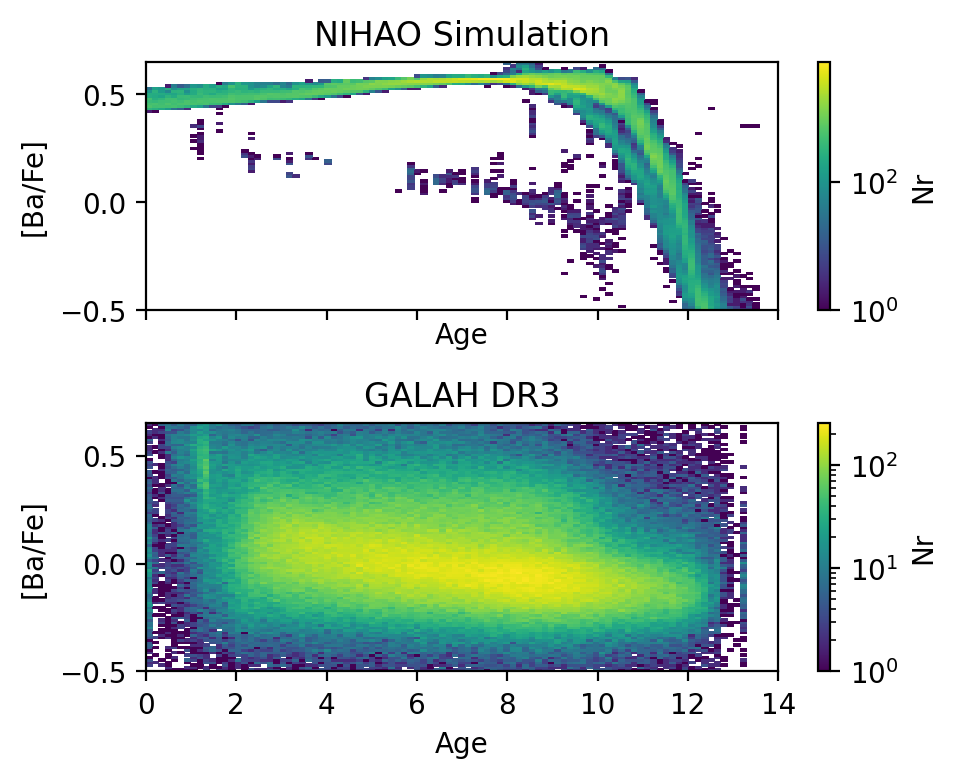
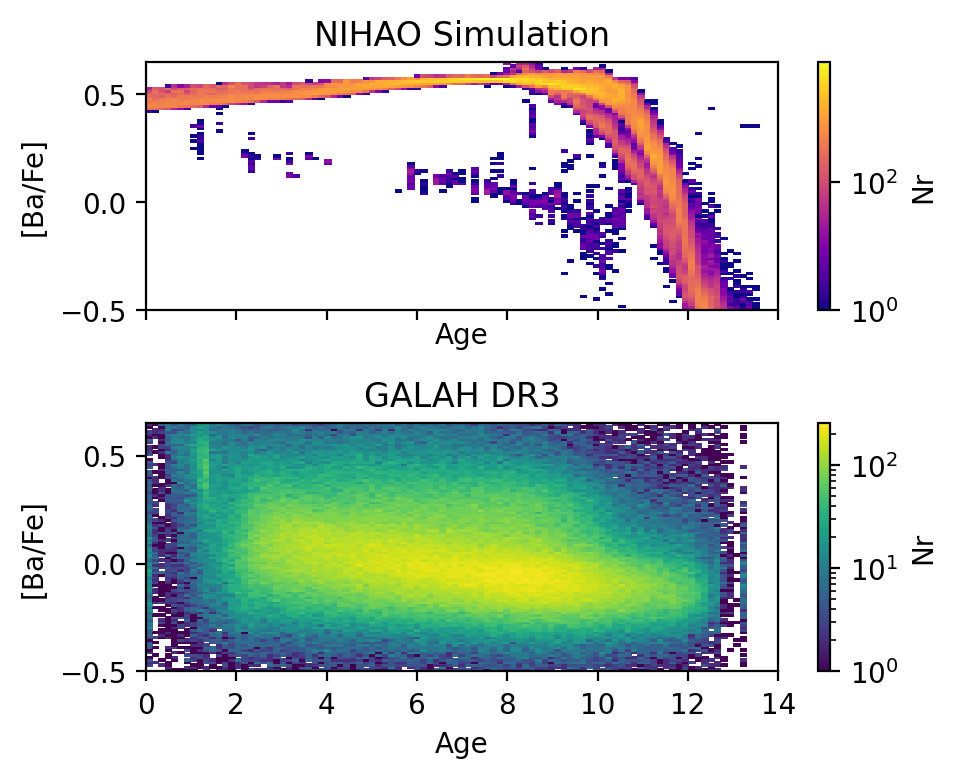
Updates from Overleaf

Changed region(s): [[0.1515, 0.0617, 0.8182, 0.401], [0.8485, 0.0925, 0.8788, 0.401], [0.2424, 0.1851, 0.3333, 0.2159]]

diff --git a/Mijnarends2022_ObsSimAccretion.tex b/Mijnarends2022_ObsSimAccretion.tex
@@ -88,8 +88,9 @@ cosmology: observations -- Galaxy: formation -- Galaxy: evolution -- Galaxy: abu
 \section{Introduction}
 \label{sec:intro}
 
-The history of the Milky Way is a puzzle that has taunted astronomers for decades. Their long lifetimes and unchanging chemical composition through Galactic evolution means that stars in the Milky Way hold key insights to our understanding of the processes that have led to our Galaxy as we know it today. The advent of new large-scale stellar surveys, providing measurements of elemental abundances\footnote{We define elemental abundances, such as [Fe/H], [Mg/Fe], and [Mg/Mn] as logarithmic ratios of two elemental number densities compared to the Sun, that is, $\left[\frac{X}{Y}\right]=\log_{10}\left(\frac{N_X}{N_Y}\right) -\log_{10}\left(\frac{N_X}{N_Y}\right)_\odot$.} for millions of stars has enabled insights into the long and complex history of our Galaxy that have been previously unattainable. When the first data from the \Gaia satellite was released in 2016 \citep{Brown2016}, it catalysed a cascade of new discoveries and discussions: a product of the survey's unprecedented accuracy and scale \citep{BlandHawthorn2019}. \Gaia's astrometric data complements corresponding advancements in spectroscopic surveys that are allowing for significant improvement in our understanding of the chemical makeup of stars \citep{Buck2021}. The \textit{GALactic Archaeology with HERMES} (GALAH) survey\footnote{\url{https://www.galah-survey.org}}, based at the Australian-Anglo telescope, is at the forefront of our improved spectroscopic capabilities \citep{DeSilva2015}. Created to provide chemical data for up to one million of the stars observed by \Gaia, the combined use of \Gaia and GALAH possesses undeniable potential for the field of galactic archaeology, promising to pave the way for improved analysis and understanding of our Galaxy \citep{Buder2021}. This report aims to contribute a small piece in our burgeoning understanding of galactic evolution: combining cosmological simulations and the spectroscopic GALAH data to explore the best option for diagnostic plots with which we can recognise accreted stars in the Milky Way.  
+The history of the Milky Way is a puzzle that has taunted astronomers for decades. The long lifetimes and unchanging chemical composition of stars makes them a key piece in the puzzle, allowing insights into the historical processes that have led to our Galaxy as we know it today. The advent of new large-scale stellar surveys, providing a wealth of information including measurements of elemental abundances\footnote{We define elemental abundances, such as [Fe/H], [Mg/Fe], and [Mg/Mn] as logarithmic ratios of two elemental number densities compared to the Sun, that is, $\left[\frac{X}{Y}\right]=\log_{10}\left(\frac{N_X}{N_Y}\right) -\log_{10}\left(\frac{N_X}{N_Y}\right)_\odot$.}  for millions of stars has enabled insights into the long and complex history of our Galaxy that have been previously unattainable. The first data release from the \Gaia satellite in 2016 \citep{Brown2016} catalysed a cascade of new discoveries and discussions: a product of the survey’s unprecedented accuracy and scale \citep{BlandHawthorn2019}. \Gaia’s astrometric data complements corresponding advancements in spectroscopic surveys, allowing for significant improvement in our understanding of the chemical makeup of stars \citep{Buck2021}. For example, this study relies on the \textit{GALactic Archaeology with HERMES} (GALAH) survey, based at the Australian-Anglo telescope, which was designed to provide chemical data for up to one million of the stars observed by Gaia \citep{Buder2021}. Using the GALAH data and cosmological simulations to explore the best diagnostic plot with which we can recognise accreted stars in the Milky Way, this report aims to contribute a small piece in our burgeoning understanding of galactic accretion. 
 
+% The history of the Milky Way is a puzzle that has taunted astronomers for decades. Their long lifetimes and unchanging chemical composition through Galactic evolution means that stars in the Milky Way hold key insights to our understanding of the processes that have led to our Galaxy as we know it today. The advent of new large-scale stellar surveys, providing measurements of elemental abundances\footnote{We define elemental abundances, such as [Fe/H], [Mg/Fe], and [Mg/Mn] as logarithmic ratios of two elemental number densities compared to the Sun, that is, $\left[\frac{X}{Y}\right]=\log_{10}\left(\frac{N_X}{N_Y}\right) -\log_{10}\left(\frac{N_X}{N_Y}\right)_\odot$.} for millions of stars has enabled insights into the long and complex history of our Galaxy that have been previously unattainable. When the first data from the \Gaia satellite was released in 2016 \citep{Brown2016}, it catalysed a cascade of new discoveries and discussions: a product of the survey's unprecedented accuracy and scale \citep{BlandHawthorn2019}. \Gaia's astrometric data complements corresponding advancements in spectroscopic surveys that are allowing for significant improvement in our understanding of the chemical makeup of stars \citep{Buck2021}. The \textit{GALactic Archaeology with HERMES} (GALAH) survey\footnote{\url{https://www.galah-survey.org}}, based at the Australian-Anglo telescope, is at the forefront of our improved spectroscopic capabilities \citep{DeSilva2015}. Created to provide chemical data for up to one million of the stars observed by \Gaia, the combined use of \Gaia and GALAH possesses undeniable potential for the field of galactic archaeology, promising to pave the way for improved analysis and understanding of our Galaxy \citep{Buder2021}. This report aims to contribute a small piece in our burgeoning understanding of galactic evolution: combining cosmological simulations and the spectroscopic GALAH data to explore the best option for diagnostic plots with which we can recognise accreted stars in the Milky Way.  
 
 % - difference in the evolution of chemical abundances, both [X/H] and [X/Fe] expected from theoretical predictions of chemical evolution \citep[see e.g.][]{Kobayashi2020}.
 % \begin{equation}
@@ -106,26 +107,47 @@ Interesting papers to keep in mind:
 
 \subsection{Identifying accreted stars - clues from observations}
 
-We are basically looking for distinct locations of accreted stars with respect to the in-situ stars in whatever observables (or inferred quantities) we can get our hands on. We can simply refer to a summary in appendix of \citet{Buder2022} and just briefly mention here:
-\begin{itemize}
-    \item pioneering studies: \citet{Nissen2010} with [Fe/H] vs. [Mg/Fe] for kinematic halo stars, \citet{Belokurov2018} with $V_R$ vs. $V_\phi$, \citet{Helmi2018} with $L_Z$ vs. $E$; see review: \citet{Helmi2020}
-    \item evidence that halo comprised of substructure: \citet{Naidu2020} with combination of $L_Z$ vs. $E$, $V_R$ vs. $V_\phi$, $J_\phi/J_\text{tot}$ vs $(J_Z - J_R)/J_\text{tot}$ $R$ vs. $e$, [Fe/H], [Fe/H] vs. [Mg/Fe]
-    \item how to identify accreted stars in chemical space: \citet{Hawkins2015, Das2020, Buder2022}, e.g. [Al/Fe] vs. [Mg/Mn] or [Na/Fe] vs. [Mg/Mn]
-    \item extra-galactic studies use age-abundance trends, e.g. \citet{Martig2021}
-\end{itemize}
+% A large array of methods have been used in the search for accreted stars; of which an extensive list can be found in the appendix of \citet{Buder2022}. Here, we refer to the pioneering research by \citet{Nissen2010} which consolidated distinct stellar abundances with previously identified distinct kinematic features. \citet{Belokurov2018} further studied the kinematic distribution in the stellar halo to conclude that the halo was formed by one large accretion event. \citet{Helmi2018} is another notable work that laid the foundations for this letter.  These findings are further outlined by \citet{Naidu2020}, with combinatory use of $L_Z$ vs. $E$, $V_R$ vs. $V_\phi$, $J_\phi/J_\text{tot}$ vs $(J_Z - J_R)/J_\text{tot}$ $R$ vs. $e$, [Fe/H], [Fe/H] vs. [Mg/Fe] etc. to provide evidence of a substructure-dominated halo. \par
+% This research uses chemical tagging to identify accreted stars within the Milky Way- a method that has been done in previous studies by \citet{Hawkins2015}, \citet{Das2020} and \citet{Buder2022}. \citet{Martig2021} identify elemental abundance over time in extra-galactic sources as a possible diagnostic tool, which is further explored in this letter. \par 
 
-Problem: All of these plots from observations have shortcomings: 1) several observables are not conserved (e.g. velocities) or less conserved (e.g. energies) over a longer time-frame and when the asymmetric potential (assumed to be axisymmetric) is evolving. Chemical abundances and ages are much more conserved properties of stars, but 1) not directly observables and 2) hard to obtain from stellar spectra and any kind of age-inference tool - especially for metal-poor stars, as we expect accreted stars to be. Just briefly mention: Al hard to measure for GALAH (can use highly-correlated Na however) and stellar ages also uncertain. The average age uncertainty of stars in GALAH is $33 \pm 20\%$. For main-sequence turn-off stars, the ages are more certain, whereas for giant stars they are on average $42 \pm 15\%$. When assuming age uncertainties of 30-50\%, the true age of a star with a measured age of 5Gyr could be anywhere between 2.5 Gyr and 7.5 Gyr old- a massive margin.
+An extensive list of the wide array of methods that have been used in the search for accreted stars can be found in the appendix of \citet{Buder2022}. Here, we refer to the pioneering research by \citet{Nissen2010}, which consolidated distinct stellar abundances with previously identified distinct kinematic features. \citet{Belokurov2018} and \citet{Helmi2018} further studied the dynamic distribution in the stellar halo, resulting in the discovery of the large accretion event termed the Gaia-Sausage-Enceladus. This finding was further outlined by \citet{Naidu2020}, with combinatory use of $L_Z$ vs. $E$, $V_R$ vs. $V_\phi$, $J_\phi/J_\text{tot}$ vs $(J_Z - J_R)/J_\text{tot}$ $R$ vs. $e$, [Fe/H], [Fe/H] vs. [Mg/Fe] etc. to provide evidence of a substructure-dominated halo. \par
+Building upon these works, \citet{Hawkins2015}, \citet{Das2020} and \citet{Buder2022} use chemical tagging to identify accreted stars, outlining a number of potential diagnostic chemical abundance plots, which were used as a foundation for this study. We also draw upon the work of \citet{Martig2021}, which identified plots of elemental abundance over time in extra-galactic sources as a possible diagnostic tool. \par 
 
-Cosmological zoom-in simulation have no age uncertainties and now also trace chemical evolution, in particular the simulation that we use here \citep{Buck2021}, a follow-up of the NIHAO simulation suite.
+These seminal works are all based on observations and are thus hindered by various shortcomings in accuracy. The timespan over which galactic evolution occurs, where in (presumably axisymmetric) asymmetric potential is evolving, is very long. This poses a few problems with the observables used in these existing studies. Variables such as velocities are not conserved over time, and observables like energies are less conserved. Therein lies one of the key advantages of chemical abundances: they are conserved qualities and thus change very little over time. They are, however, not directly observable and difficult to obtain from stellar spectra and any age-inference tool. This is especially the case in metal-poor stars, as we expected accreted stars to be. 
+It is prudent to note here that the GALAH data we are working with is particularly difficult to measure in Aluminium abundance, which can be addressed by using the highly-correlated Sodium values instead. The observed stellar ages are even more uncertain- with an average age uncertainty of $33\pm20\%$. We are currently working with a massive age uncertainty range between $30-50\%$. Cosmological simulations, such as those used in this study, carry no age uncertainties and the particular simulation we use here (\citep{Buck2021}) now also includes chemical abundance information. This will provide an exceptional preliminary dataset for exploring potential diagnostic tools, without uncertainty margins to consider. 
+
+
+
+% All of these plots that are based on observations are hindered by various issues in accuracy. The timespans over which galactic evolution occurs, wherein the asymmetric potential (assumed to be axisymmetric) is evolving are very long. This means that several observables used in several of the above works are either not conserved (such as velocities) or less conserved (e.g. energies). This can be addressed by using chemical abundances, which are conserved quantities and expected to change very little over time. However, abundances are not directly observable and difficult to obtain from stellar spectra and any age-inference tool. This is especially the case in metal-poor stars, as we expect accreted stars to be.\par 
+% It is prudent to note here that the GALAH data we are working with is particularly difficult to measure in Aluminium abundance, which can be addressed by using the highly-correlated Sodium values instead. The observed stellar ages are even more uncertain- with an average age uncertainty of $33\pm20\%$. When  assuming age uncertainties of $30-50\%$, a star’s true age with a measured age of 5Gyr could be anywhere between 2.5 Gyr and 7.5 Gyr old- a massive margin.
+% Cosmological zoom-in simulations carry no age uncertainties and the particular simulation we use here (\citep{Buck2021}) now also includes chemical abundance information. 
+
+
+
+% We are basically looking for distinct locations of accreted stars with respect to the in-situ stars in whatever observables (or inferred quantities) we can get our hands on. We can simply refer to a summary in appendix of \citet{Buder2022} and just briefly mention here:
+% \begin{itemize}
+%     \item pioneering studies: \citet{Nissen2010} with [Fe/H] vs. [Mg/Fe] for kinematic halo stars, \citet{Belokurov2018} with $V_R$ vs. $V_\phi$, \citet{Helmi2018} with $L_Z$ vs. $E$; see review: \citet{Helmi2020}
+%     \item evidence that halo comprised of substructure: \citet{Naidu2020} with combination of $L_Z$ vs. $E$, $V_R$ vs. $V_\phi$, $J_\phi/J_\text{tot}$ vs $(J_Z - J_R)/J_\text{tot}$ $R$ vs. $e$, [Fe/H], [Fe/H] vs. [Mg/Fe]
+%     \item how to identify accreted stars in chemical space: \citet{Hawkins2015, Das2020, Buder2022}, e.g. [Al/Fe] vs. [Mg/Mn] or [Na/Fe] vs. [Mg/Mn]
+%     \item extra-galactic studies use age-abundance trends, e.g. \citet{Martig2021}
+% \end{itemize}
+
+% Problem: All of these plots from observations have shortcomings: 1) several observables are not conserved (e.g. velocities) or less conserved (e.g. energies) over a longer time-frame and when the asymmetric potential (assumed to be axisymmetric) is evolving. Chemical abundances and ages are much more conserved properties of stars, but 1) not directly observables and 2) hard to obtain from stellar spectra and any kind of age-inference tool - especially for metal-poor stars, as we expect accreted stars to be. Just briefly mention: Al hard to measure for GALAH (can use highly-correlated Na however) and stellar ages also uncertain. The average age uncertainty of stars in GALAH is $33 \pm 20\%$. For main-sequence turn-off stars, the ages are more certain, whereas for giant stars they are on average $42 \pm 15\%$. When assuming age uncertainties of 30-50\%, the true age of a star with a measured age of 5Gyr could be anywhere between 2.5 Gyr and 7.5 Gyr old- a massive margin.
+
+% Cosmological zoom-in simulation have no age uncertainties and now also trace chemical evolution, in particular the simulation that we use here \citep{Buck2021}, a follow-up of the NIHAO simulation suite.
 
 \subsection{NIHAO Zoom-in simulation with chemistry}
 
-In this study, we use a follow-up zoom-in simulation from the \textit{Numerical Investigation of a Hundred Astronomical Objects} (NIHAO) simulation suite. NIHAO describes a series of 100 “zoom-in” simulations, the most accurate and unbiased galactic models to-date \citep{Wang2015}. These simulations are characterised as time-resolved chemical enrichment models, where spectral data is taken at specific time intervals, rather than averaged over time. This allows for unprecedented flexibility in the initial parameters and consequently unprecedented accuracy in the models \citep{Buck2021}. 
-More importantly, the simulations by \citet{Buck2021} incorporate a “hybrid approach” wherein observational data is first used to fit a chemical evolution model for initial conditions, before being fit to hydrodynamical simulations \citep{Buck2021}. It is clear therefore that the accuracy of models relies heavily on sufficient observational data \citep{Wang2015}, which reinforces the importance of large, accurate surveys like \Gaia and GALAH. The simulations are used throughout this project to compare to results from the observational data of GALAH, as well as providing an argument for different plots to be used. This allows an unprecedented comparison of accurate measurements with uncertainties and model predictions without uncertainties.
+The \textit{Numerical Investigation of a Hundred Astronomical Objects} (NIHAO) simulation suite describes a series of 100 “zoom-in” simulations- the most accurate and unbiased galactic models to-date \citep{Wang2015}. In this study, we use a follow-up simulation from NIHAO, produced by \citet{Buck2021}. These simulations use observational data to first fit a chemical evolution model for initial conditions, before being fit to hydrodynamical simulations. The accuracy of the models relies heavily on sufficient observational data, which further reinforces the important of large, accurate surveys like \Gaia and GALAH. The simulations are used throughout this report to compare results from the observational data of GALAH (eg. \citep{Buder2022}, \citep{Hawkins2015}, \citep{Das2020}, as well as introducing evidence to support additional diagnostic plots, such as element-age plots (eg. \citep{Martig2021}).
+\par 
+The simulation data is available for a selected number of elements of which only ten correspond with the GALAH data. The only elements we are able to work with in both datasets are C, O, Mg, Al, Si, V, Cr, Mn, Co and Ba. For each of these, Fig.~\ref{fig:FeH_XFe} shows the element’s abundance ratio to Hydrogen plotted against [Fe/H], or the metallicity. 
 
-Motivation for this study: In \citet{Buck2021}, the main focus of the paper was to present the chemical evolution implementation and only a few verification plots have been done, focusing on the stellar disk.
+% In this study, we use a follow-up zoom-in simulation from the \textit{Numerical Investigation of a Hundred Astronomical Objects} (NIHAO) simulation suite. NIHAO describes a series of 100 “zoom-in” simulations, the most accurate and unbiased galactic models to-date \citep{Wang2015}. These simulations are characterised as time-resolved chemical enrichment models, where spectral data is taken at specific time intervals, rather than averaged over time. This allows for unprecedented flexibility in the initial parameters and consequently unprecedented accuracy in the models \citep{Buck2021}. 
+% More importantly, the simulations by \citet{Buck2021} incorporate a “hybrid approach” wherein observational data is first used to fit a chemical evolution model for initial conditions, before being fit to hydrodynamical simulations \citep{Buck2021}. It is clear therefore that the accuracy of models relies heavily on sufficient observational data \citep{Wang2015}, which reinforces the importance of large, accurate surveys like \Gaia and GALAH. The simulations are used throughout this project to compare to results from the observational data of GALAH, as well as providing an argument for different plots to be used. This allows an unprecedented comparison of accurate measurements with uncertainties and model predictions without uncertainties.
 
-The simulation data is available for the elements H, He, C, N, O, Ne, Mg, Al, Si, P, S, V, Cr, Mn, Fe, Co, Ba. Of these, only ten correspond with the GALAH data leaving plots possible for only C, O, Mg, Al, Si, V, Cr, Mn, Co and Ba. For each of these ten, a plot was produced in Python of the element's abundance ratio to Hydrogen, against the abundance ratio [Fe/H], or metallicity. The results of this are shown in Fig.~\ref{fig:FeH_XFe}.
+\LM{Motivation for this study: In \citet{Buck2021}, the main focus of the paper was to present the chemical evolution implementation and only a few verification plots have been done, focusing on the stellar disk.}
+
+% The simulation data is available for the elements H, He, C, N, O, Ne, Mg, Al, Si, P, S, V, Cr, Mn, Fe, Co, Ba. Of these, only ten correspond with the GALAH data leaving plots possible for only C, O, Mg, Al, Si, V, Cr, Mn, Co and Ba. For each of these ten, a plot was produced in Python of the element's abundance ratio to Hydrogen, against the abundance ratio [Fe/H], or metallicity. The results of this are shown in Fig.~\ref{fig:FeH_XFe}.
 
 \SB{Question to discuss: Should we renormalise the [X/H] for the elements so that the solar neighborhood lands at 0, as would be custom by definition?}
 
@@ -144,8 +166,10 @@ In Sec.~\ref{sec:intro}, we have identified several observation-based plots that
 
 \subsection{Abundance trends: [Fe/H] vs. [X/Fe]} \label{sec:feh_xfe}
 
+There are only ten elements available in both the GALAH dataset and the NIHAO simulations- the abundances of which were plotted against metallicity [Fe/H] in Figure \ref{fig:FeH_XFe}, which highlights the huge divergence between the two. Where clear overdensities can be observed in the observations, there is little distinct substructure in the simulation-based plots, and it is impossible to identify different stellar populations. One of the key advantages to using simulations is the complete lack of corresponding measurement uncertainties. We would expect the substructure to appear even more clearly in the simulations than in the observations, and the fact that this isn’t the case indicates a larger problem in the process.
+
 \begin{itemize}
-    \item Trends for 10 overlapping elements in Fig.~\ref{fig:FeH_XFe}.
+    %\item Trends for 10 overlapping elements in Fig.~\ref{fig:FeH_XFe}.
     \item To discuss: [C/Fe] and [Ba/Fe] with significant differences!
     \item Then closer look at contributions from SNII vs. SNIa as suggested by \citet{Nissen2010} in Fig.~\ref{fig:low_alpha_halo}. Discuss selection of white polygon and how it does not show a significant overdensity in the [Al/Fe] vs. [Mn/Mn] plot (which could be expected without measurement uncertainties).
     \item Look more generally at the abundance-abundance plots used to identify accreted stars in Sec.~\ref{sec:alfe_mgmn}.
@@ -175,31 +199,37 @@ In Sec.~\ref{sec:intro}, we have identified several observation-based plots that
 
 \subsection{Abundance-abundance plots: [Al/Fe] vs. [Mg/Mn]} \label{sec:alfe_mgmn}
 
-\begin{itemize}
-    \item As suggested by \citet{Hawkins2015} and \citet{Das2020} based on data from the APOGEE survey as well as \citet{Buder2022} based on data from the GALAH survey, we plot the ratio of a light odd-Z element (Na and Al) as well as the ratio of SNII and SNIa dominated elements (Mg and Mn, respectively) in Fig.~\ref{fig:alfe_mgmn}.
-    \item Describe observations: overdensities for thin/low-alpha disk around (0,0), thick/high-alpha disk at (0.4,0.5) and accreted stars around (-0.4,0.4), refer to \citet{Das2020, Horta2021}. Not so clear for [Al/Fe] with GALAH, but clearer when using [Na/Fe] \citep{Buder2022}. \SB{We could use APOGEE DR17 for a better/clearer comparison.}
-    \item Describe simulations: Zeropoint shift, that is the location of the thin disk around (-0.23,-0.55) instead (0,0). But also overall structure is significantly different: No noise, but also no clear substructure!
-    \item Interpretation: different chemical evolution in simulation and Milky Way (either because truly different or because chemical enrichment in simulation not accurate).
-\end{itemize}
+We then plot the ratio of a light odd-z element (Na and Al) against alpha element Mg over Mn, shown in Figure 3. The ratio of [Mg/Mn] represents the ratio of SNII and SNIa dominated elements respectively. Looking first at the observations, there are clear overdensities visible in both plots.  Both [Na/Fe] and [Al/Fe] plots show the overdensity for the thin/low-alpha disk at the expected solar abundances at (0,0). The high-alpha disk is seen in an overdensity at around (0.4,0.5). More importantly, although not clear for [Al/Fe] with the GALAH data in this report, accreted stars are visible in the [Na/Fe] plot at around (-0.4,0.4). These observations concur with \citet{Das2020} and \citet{Horta2020}, which both used APOGEE data and the [Al/Fe] ratio instead. \par 
+In the simulations, there is very significant zeropoint shift from the observations, where the only clear overdensity of the thin disk is at (-0.23, -0.55) instead of the expected (0,0). The overall shape and structural composition is also massively different from the plots created with GALAH data. The simulations contain zero noise, and it was expected that this would clarify the results seen in the observational data. The fact that this was not the case may indicate different chemical evolution in the simulation and the actual Milky Way. This could be either because they are truly inherently different or the result of inaccurate chemical enrichment in the simulation. 
+
+
+
+% \begin{itemize}
+%     \item As suggested by \citet{Hawkins2015} and \citet{Das2020} based on data from the APOGEE survey as well as \citet{Buder2022} based on data from the GALAH survey, we plot the ratio of a light odd-Z element (Na and Al) as well as the ratio of SNII and SNIa dominated elements (Mg and Mn, respectively) in Fig.~\ref{fig:alfe_mgmn}.
+%     \item Describe observations: overdensities for thin/low-alpha disk around (0,0), thick/high-alpha disk at (0.4,0.5) and accreted stars around (-0.4,0.4), refer to \citet{Das2020, Horta2021}. Not so clear for [Al/Fe] with GALAH, but clearer when using [Na/Fe] \citep{Buder2022}. \SB{We could use APOGEE DR17 for a better/clearer comparison.}
+%     \item Describe simulations: Zeropoint shift, that is the location of the thin disk around (-0.23,-0.55) instead (0,0). But also overall structure is significantly different: No noise, but also no clear substructure!
+%     \item Interpretation: different chemical evolution in simulation and Milky Way (either because truly different or because chemical enrichment in simulation not accurate).
+% \end{itemize}
 
 \begin{figure*}
-	\includegraphics[width=\textwidth]{figures/plasma_4.png}
-    \caption{Simulation (left) vs observation (right) of alpha element Mg against Mn, plotted over [Al/Fe]. The two plots are on separate axes as the observational plot had to be zoomed in significantly to show any sufficient detail. The zeropoints are completely different, with the axes representing the solar abundances at [0,0] not visible on the observational plot. %\SB{Luka: Can you try to color the simulation with cmap='plasma' and add this plot to the final notebook?}
+	\includegraphics[width=\textwidth]{figures/[MgMn] vs [AlFe].png}
+    \caption{Simulation (left) vs observation (right) of alpha element Mg against Mn, plotted over [Al/Fe]. The two plots are on separate axes as the observational plot had to be zoomed in significantly to show any sufficient detail. The zeropoints are completely different, with the axes representing the solar abundances at [0,0] not visible on the observational plot. 
     }
     \label{fig:alfe_mgmn}
 \end{figure*}
 
 \section{A new angle: age-abundance-distributions}
 
-\begin{itemize}
-    \item Chemistry is not the only conserved property of stars.
-    \item We therefore turn to stellar ages and assess age-abundance trends in the simulations. This is an especially informative exercise, as stellar ages are currently still suffering from low precisions on the order of 30-50\% for most stars. Our simulation, however, traces the formation age \texttt{tform} as a perfect value and we can infer stellar ages by subtracting \texttt{tform} from the age of the universe, which is $14.14\,\mathrm{Gyr}$ in the simulation.
-    \item Such plots have been used in observed data of other galaxies to identify accreted stars \citep{Martig2021}.
-\end{itemize}
+Fortunately, chemistry is not the only conserved property of stars. We therefore turn to stellar ages and assess age-abundance trends in the simulations. Observations still suffer from incredibly large uncertainties on the order of $30-50\%$ for most stars, so examining simulation plots remove this barrier and allow to determine chemical enrichment as a function of age, by subtracting the simulated formation age tform from 14.14 Gyr, the age of the simulated universe \citep{Buck2021}. Although the observational plots showed incomprehensible results, there is very clear substructure in the simulated age-abundance plots, with two distinct streams for the two populations (in-situ and accreted).\par 
 
-Elements are created through a variety of pathways and in particular with a time- and environment-dependent manner \citep{Kobayashi2020}. It is clear therefore that chemical enrichment is intrinsically linked to stellar age, most crucially because chemical abundances remain unchanged from birth. This means that plotting elemental abundances over time should produce clarity between accreted and in situ stars, as there should be clear patterns in how the elements evolved over time.  And in this simulation plot, finally there are distinct stellar populations, represented by two 'streams'. The upper stream in these plots is representative of the in situ population of stars, and the lower, the accreted population. This explains the similarly shaped path of evolution that both follow, but accreted populations tend to join the Milky Way from smaller galaxies with less massive stars. This means that the stars are less metal-heavy and will therefore have a generally lower component of elemental abundance in their evolution, as is shown.  
+Accreted populations tend to join the Milky Way from smaller galaxies with less massive stars. This means that the stars are less metal-heavy and explains the lower stream of accreted stars that can be observed in the simulation data. \par 
 
-The simulation plots are very clear- which is not reflected in the observational plots. The reason for this is the statistically massive measurement uncertainties that correspond with age measurements. As explained in Section \ref{sec:intro}, stellar ages are estimated using isochrone fitting and are very reliant on probability, with measurement uncertainties of around $30-50\%$ of the age in question. These uncertainties are responsible for the copious scatter seen in the observational plots, and means that with our current ability to estimate stellar ages, it is impossible to see distinct substructure. With less uncertainty (such as the simulation plots) distinct populations become clear, which provides clear motivation for further investigation into these plots as diagnostic tools. 
+The stark difference in clarity of results between the uncertainty-free simulation data and the high-uncertainty GALAH data highlights the importance of reducing observation noise, and provides clear motivation for further investigation into these plots as diagnostic tools. Similar plots have been used already with GALAH data to identify accreted substructure in galaxies other than the Milky Way \citep{Martig2021}. 
+% \begin{itemize}
+%     \item Chemistry is not the only conserved property of stars.
+%     \item We therefore turn to stellar ages and assess age-abundance trends in the simulations. This is an especially informative exercise, as stellar ages are currently still suffering from low precisions on the order of 30-50\% for most stars. Our simulation, however, traces the formation age \texttt{tform} as a perfect value and we can infer stellar ages by subtracting \texttt{tform} from the age of the universe, which is $14.14\,\mathrm{Gyr}$ in the simulation.
+%     \item Such plots have been used in observed data of other galaxies to identify accreted stars \citep{Martig2021}.
+% \end{itemize}
 \begin{figure}
 	\includegraphics[width=\columnwidth]{figures/Ba_Fe_time.png}
     \caption{Barium abundance in a ratio with Iron [Ba/Fe] as a function of age. Simulation data (top) and GALAH data (bottom) shows clear differences in scatter. Although not entirely separate, it is clear that there are two different overdensities in a 'stream'-like shape.}
@@ -245,9 +275,13 @@ We confirm our assumption of Gaussian distributions for the sequences by looking
     \label{fig:hist_labels}
 \end{figure}
 
+Fig.~\ref{fig:hist_labels} is a visual representation of the two populations we are working with limted to the ages of $8-9\,\mathrm{Gyr}$. The larger peak represents the in-situ population (also the higher 'stream' in Fig.~\ref{fig:BaHtime}). Assuming a Gaussian distribution, we determine the values of $\mu_1$, $\mu_2$, $\sigma_1$ and $\sigma_2$, which can be used to calculate the separation significance according to Eq.~\ref{eq:r_value}. These values are all displayed in Table.~\ref{tab:r_values_simulation}
+\LM{Should $\mu_1$ etc. be labelled $\mu_{acc}$ etc. instead?}
+
 To determine the positions of the sequences and subsequent separation of data to calculate $\mu_1$ and $\mu_2$, we estimated the mean [X/H] values for in-situ and accreted stars at the ages of $8-9\,\mathrm{Gyr}$. This was done visually, through looking at the histogram of each element as in Fig.~\ref{fig:hist_labels} and setting an upper and lower limit for each sequence. \SB{Need to make this more quantitative via Python.}
 
-We then split the dataset for this particular into 2 and calculated 16th, 50th, and 84th percentiles in order to recover a more robust mean and standard deviation (and monitor our assumption of a Gaussian distribution). \SB{We list the values of 16th, 50th, and 84th percentiles as well as the resulting $r$ values in Tab.~\ref{tab:r_values_simulation}.}
+We then split the dataset for this particular into 2 and calculated 16th, 50th, and 84th percentiles in order to recover a more robust mean and standard deviation (and monitor our assumption of a Gaussian distribution).
+\SB{We list the values of 16th, 50th, and 84th percentiles as well as the resulting $r$ values in Tab.~\ref{tab:r_values_simulation}.}
 
 \input{tables/separation_significance_two_sequences}
 
@@ -268,22 +302,7 @@ We plot the results of the first test, $r (\sigma_\text{obs})$ in Fig.~\ref{fig:
     \label{fig:r_v_obs}
 \end{figure}
 
-\begin{center}
-\begin{table}
-    \centering
-    \caption{Observational uncertainties for each element that allow to separate the in-situ and accreted sequences at $8-9\,\mathrm{Gyr}$ with 95\% ($r>2$) and 68\% ($r>1$) certainty. The last rows report the percentage of measurements and their the median uncertainties for the element reported by GALAH DR3 (as indicators of how often and how well the element can be measured.}
-    \begin{tabular}{ccccc} 
-     \hline
-     Element & $\sigma_\text{obs}$ 95\% & $\sigma_\text{obs}$ 68\% & Det. Rate & $\sigma_\text{GALAH}$ \\ 
-     \hline\hline
-     {[C/H]}  & 0.20 & 0.40 & 27\% & 0.15 \\
-     {[O/H]}  & 0.20 & 0.40 & 94\% & 0.15 \\
-     {[Mg/H]} & 0.20 & 0.35 & 95\% & 0.11 \\
-     \hline
-    \end{tabular}
-    \label{tab:sigma_obs}
-\end{table}
-\end{center}
+\input{tables/table_2_test}
 
 \begin{figure}
 	\includegraphics[width=\columnwidth]{figures/same_axis_r_age.png}

diff --git a/tables/table_2_test.tex b/tables/table_2_test.tex
@@ -1,0 +1,18 @@
+\begin{table}
+    \centering
+    \caption{Observational uncertainties for each element that allow to separate the in-situ and accreted sequences at $8-9\,\mathrm{Gyr}$ with 95\% ($r>2$) and 68\% ($r>1$) certainty. The last rows report the percentage of measurements and their the median uncertainties for the element reported by GALAH DR3 (as indicators of how often and how well the element can be measured.}
+    \begin{tabular}{ccccc}
+    \hline
+    Element & $\sigma_\text{obs}$ 95\% & $\sigma_\text{obs}$ 68\% & Det. Rate & $\sigma_\text{GALAH}$ \\
+    \hline \hline
+    {[C/H]}  & 1.0 & 1.0 & 49.936 & 0.148 \\
+    {[Mn/H]}  & 1.0 & 1.0 & 87.506 & 0.112 \\
+    {[Ba/H]}  & 1.0 & 1.0 & 89.552 & 0.117 \\
+    {[Co/H]}  & 1.0 & 1.0 & 69.487 & 0.146 \\
+    {[Al/H]}  & 1.0 & 1.0 & 88.841 & 0.085 \\
+    {[Cr/H]}  & 1.0 & 1.0 & 86.299 & 0.099 \\
+    {[O/H]}  & 1.0 & 1.0 & 88.227 & 0.155 \\
+    \hline
+    \end{tabular}
+    \label{tab:r_values_simulation}
+\end{table}

diff --git a/tables/separation_significance_two_sequences.tex b/tables/separation_significance_two_sequences.tex
@@ -5,9 +5,16 @@
     \hline
     Element & $\mu_\text{in-situ}$ & $\sigma_\text{in-situ}$ & $\mu_\text{accr.}$ & $\sigma_\text{accr.}$ & $r$\\
     \hline \hline
-    {[C/H]}  & 0.0 & 1.0 & 0.0 & 1.0 & 5.3 \\
-    {[O/H]}  & 0.0 & 1.0 & 0.0 & 1.0 & 5.3 \\
-    {[Mg/H]}  & 0.0 & 1.0 & 0.0 & 1.0 & 5.3 \\
+    {[Mg/H]}  & -0.86 & 0.03 & -0.34 & 0.08 & 6.12 \\
+    {[C/H]}  & -0.33 & 0.04 & 0.12 & 0.08 & 5.27 \\
+    {[Mn/H]}  & -0.42 & 0.04 & 0.15 & 0.09 & 5.74 \\
+    {[Si/H]}  & -0.33 & 0.03 & 0.17 & 0.08 & 5.95 \\
+    {[Ba/H]}  & -0.06 & 0.07 & 0.52 & 0.1 & 4.55 \\
+    {[V/H]}  & -0.8 & 0.04 & -0.19 & 0.09 & 6.14 \\
+    {[Co/H]}  & -0.81 & 0.04 & -0.17 & 0.09 & 6.38 \\
+    {[Al/H]}  & -0.86 & 0.04 & -0.27 & 0.09 & 6.33 \\
+    {[Cr/H]}  & -0.58 & 0.04 & -0.01 & 0.09 & 5.91 \\
+    {[O/H]}  & -0.35 & 0.03 & 0.11 & 0.07 & 5.99 \\
     \hline
     \end{tabular}
     \label{tab:r_values_simulation}
